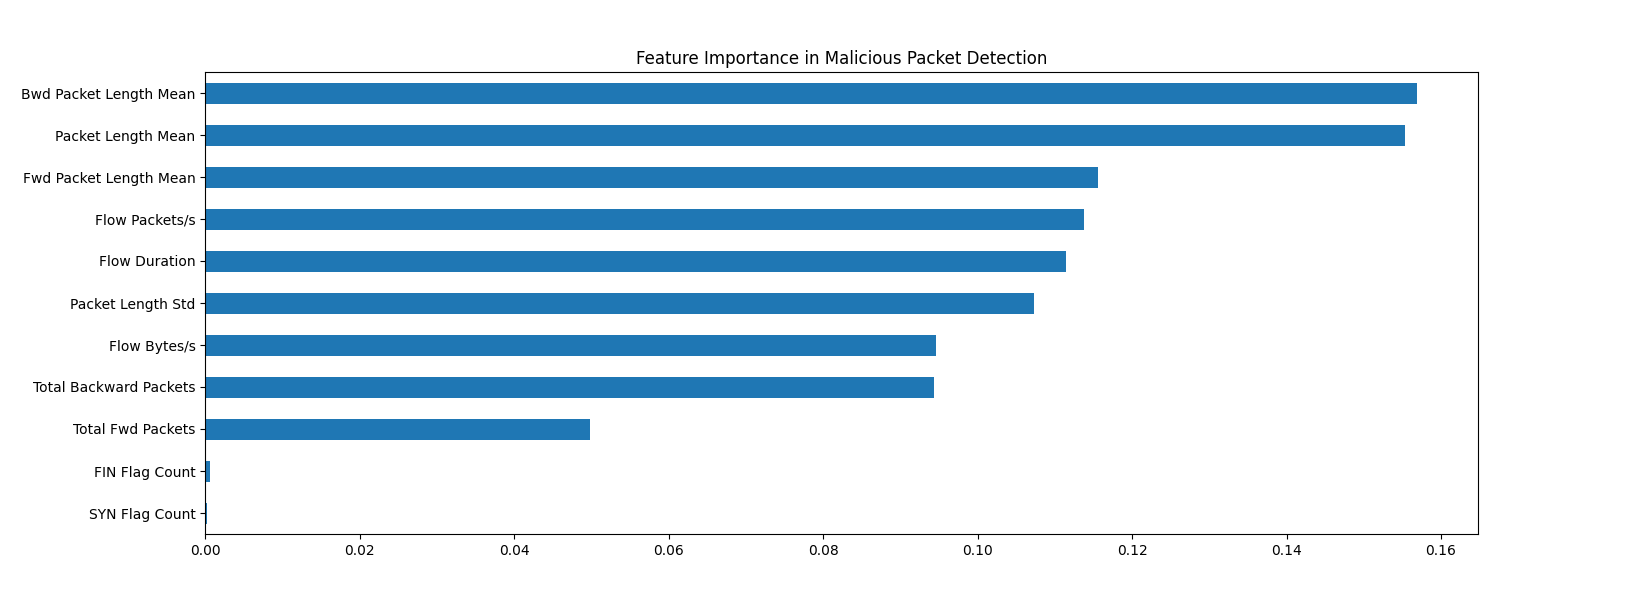
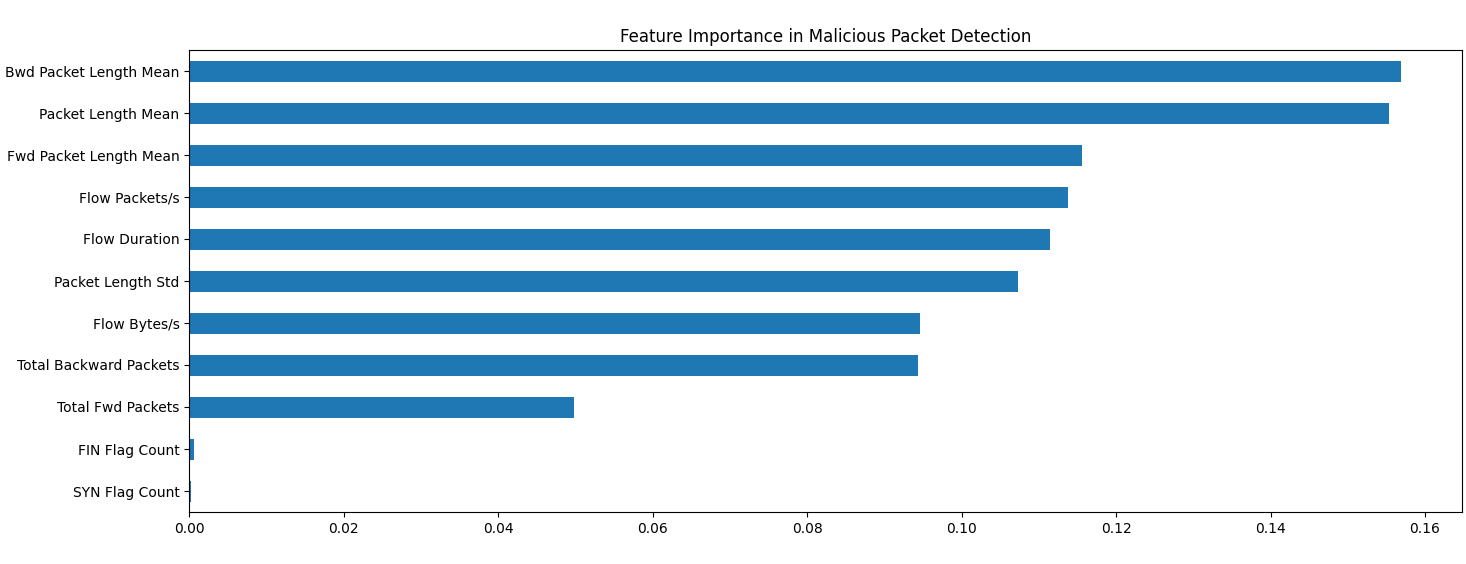
updates to images for page help

Changed region(s): [[0.0, 0.0301, 0.9823, 0.8138], [0.0307, 0.844, 0.8902, 0.9645], [0.9516, 0.9043, 0.9823, 0.9645]]

diff --git a/itcs3162/projects/project2/index.html b/itcs3162/projects/project2/index.html
@@ -49,10 +49,12 @@
     a:hover {
       text-decoration: underline;
     }
-    figure {
-      text-align: center;
-      margin: 20px 0;
-    }
+    figure img {
+  max-width: 100%;
+  height: auto;
+  display: block;
+  margin: 0 auto;
+}
     figcaption {
       margin-top: 5px;
       font-style: italic;
@@ -67,10 +69,11 @@
   <header>
     <h1>Malicious Packet Classification Research Project</h1>
   </header>
-
+  <p><a href="https://github.com/RealRybear/CyberPacketClassifier/blob/main/CyberPacketClassifier.ipynb">View the full notebook on Github</a></p>
   <!-- Introduce the Problem -->
   <section>
     <h2>Introduce the Problem</h2>
+    
     <p>As part of my research in cybersecurity, I embarked on a project to develop a <strong>classification model</strong> that detects malicious network packets. The primary goal of this project is to leverage machine learning techniques to identify packets that may pose a threat, thereby contributing to the ongoing efforts in securing digital networks.</p>
     <p>The digital landscape is under constant threat from malicious actors. The challenge I address in this project is to develop a robust classification model capable of distinguishing between normal and malicious network packets. The key questions guiding this research are:</p>
     <ul>
@@ -113,15 +116,33 @@
 
   <!-- Data Understanding & Visualization -->
   <section>
+    
     <h2>Data Understanding & Visualization</h2>
     <p>To better understand the data and uncover potential insights, I employed several visualization techniques:</p>
+    
     <ul>
       <li><strong>Histograms & Scatter Plots:</strong> Provided views of feature distributions and relationships, highlighting which features might be most relevant.</li>
       <li><strong>Correlation Heatmap:</strong> Revealed the strength of relationships between features and with the target label.</li>
       <li><strong>Parallel Coordinates Plot:</strong> Offered a high-dimensional view to observe how feature values vary across samples.</li>
     </ul>
     <p>These visualizations were instrumental in identifying patterns and trends—such as which features differed significantly between malicious and normal packets. The findings helped refine the feature selection process and guided the next steps in modeling.</p>
-    
+   
+  <p>
+    In addition to evaluating the model’s overall performance, it is often helpful to understand which features have the greatest impact on its decisions. The bar chart below highlights the relative importance of each feature in predicting whether a packet is malicious. Higher bars correspond to features that exert a stronger influence on the Random Forest classifier’s final prediction.
+  </p>
+  <figure>
+    <!-- Update the src attribute if you have a different file name or location -->
+    <img src="Figure_1.png"
+    alt="Distribution of Normal vs Malicious Traffic"
+    style="max-width:108%; height:auto;">
+    <figcaption>Figure 1: Feature Importance in Malicious Packet Detection</figcaption>
+  </figure>
+  <p>
+    From this chart, we can see that certain metrics—such as <strong>Bwd Packet Length Mean</strong>, <strong>Packet Length Mean</strong>, and <strong>Fwd Packet Length Mean</strong>—are particularly significant. These insights suggest that malicious packets in our dataset often exhibit distinguishable patterns in their length distributions. Meanwhile, flags like <strong>FIN Flag Count</strong> or <strong>SYN Flag Count</strong> appear to play a less pivotal role, which may be due to attackers adapting their tactics or the specific characteristics of this dataset.
+  </p>
+  <p>
+    Understanding feature importance not only helps interpret the model’s behavior but also guides future iterations of data collection and feature engineering. For instance, if certain features consistently rank high, security analysts might focus on refining or further exploring those metrics to enhance the model’s predictive power. Conversely, features with minimal importance may be candidates for removal or replacement to streamline the model and improve computational efficiency.
+  </p>
     <!-- Figure 2: Distribution of Normal vs Malicious Traffic -->
     <p><strong>Figure 2:</strong> The bar chart below shows the overall distribution of normal vs. malicious traffic. This figure highlights any class imbalance within the dataset, which is important because an imbalanced dataset can affect the model’s ability to learn minority class characteristics. Noticing the proportion of malicious packets early on helps in planning further steps such as resampling or adjusting evaluation metrics.</p>
     <figure>
@@ -137,7 +158,8 @@
     <figure>
       <img src="Figure_3.png"
            alt="Correlation Heatmap of Key Features"
-           style="max-width:130%; height:auto;">
+           style="max-width:100%; height:auto; float: left;
+">
       <figcaption>Figure 3: Correlation Heatmap of Key Features</figcaption>
     </figure>
     <p>This enlarged heatmap allows for a clearer view of the inter-feature relationships, helping to determine which variables might be redundant or highly influential in classifying packets.</p>
@@ -254,7 +276,7 @@ model.fit(X_train, y_train)
 print("Training Accuracy:", model.score(X_train, y_train))
 print("Test Accuracy:", model.score(X_test, y_test))
 </code></pre>
-    <p>To view or download the complete work, please visit my <a href="https://github.com/RealRybear/CyberPacketClassifier">Github page</a>.</p>
-  </section>
+
+<p><a href="https://github.com/RealRybear/CyberPacketClassifier/blob/main/CyberPacketClassifier.ipynb">View the full notebook on Github</a></p>  </section>
 </body>
 </html>
